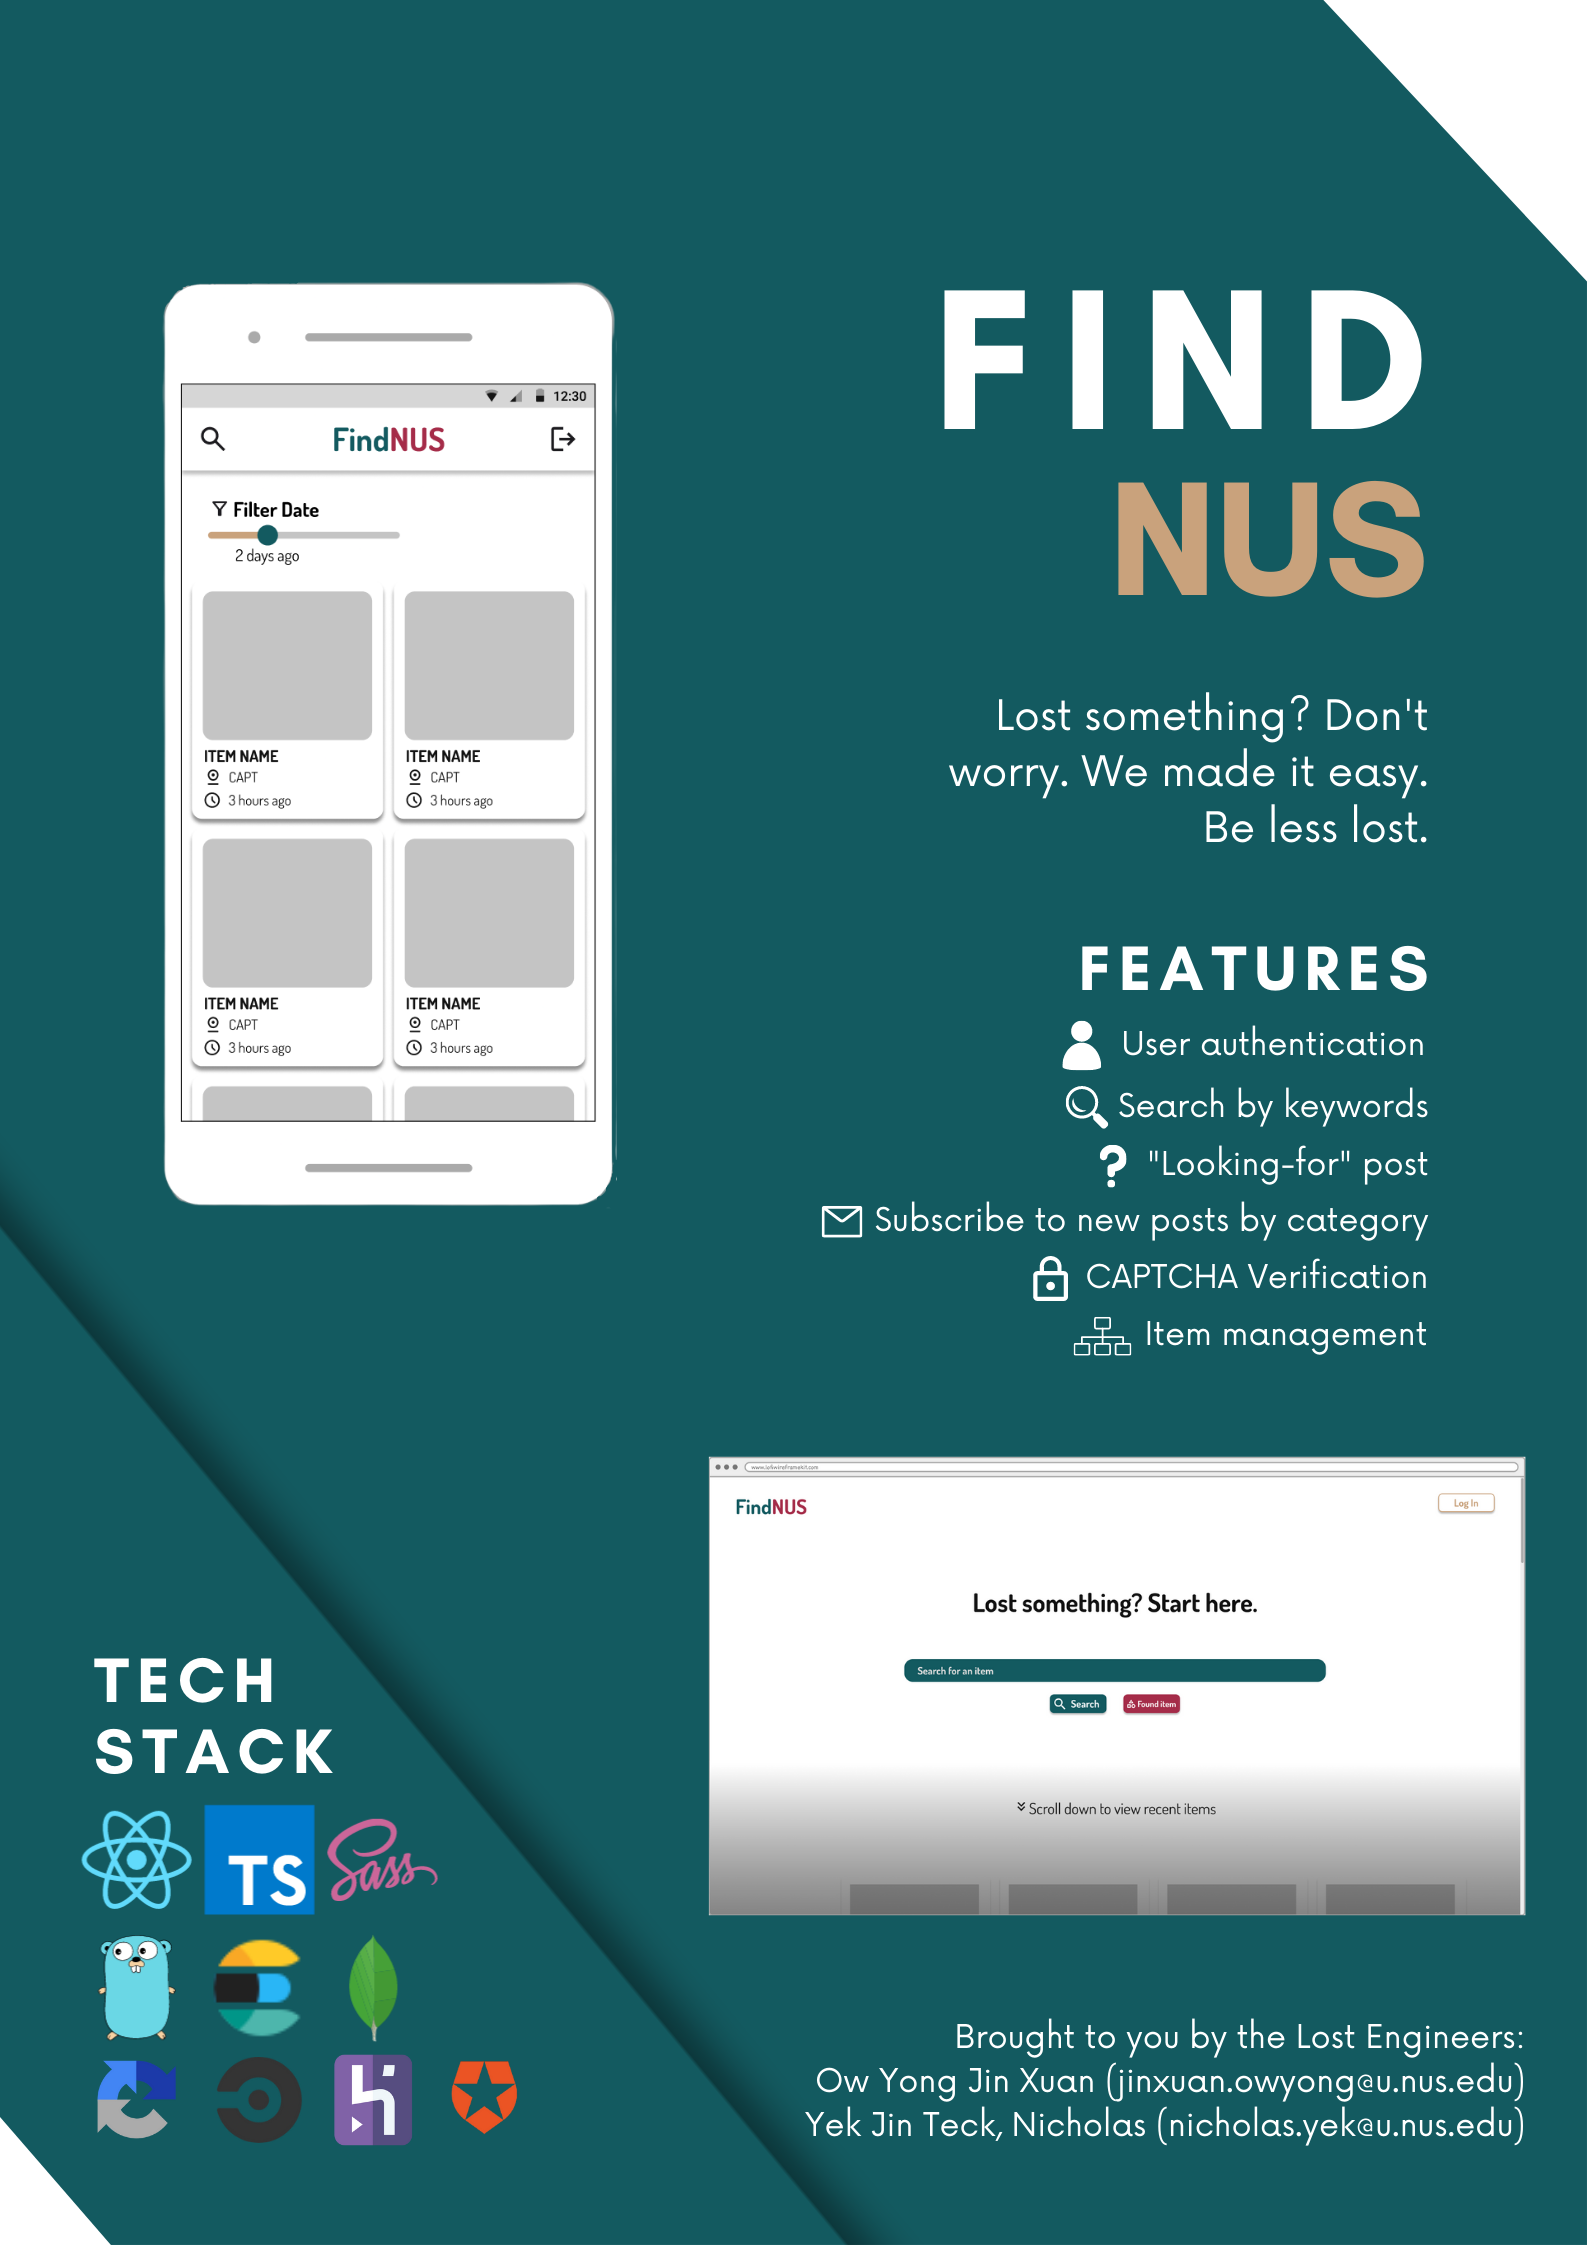
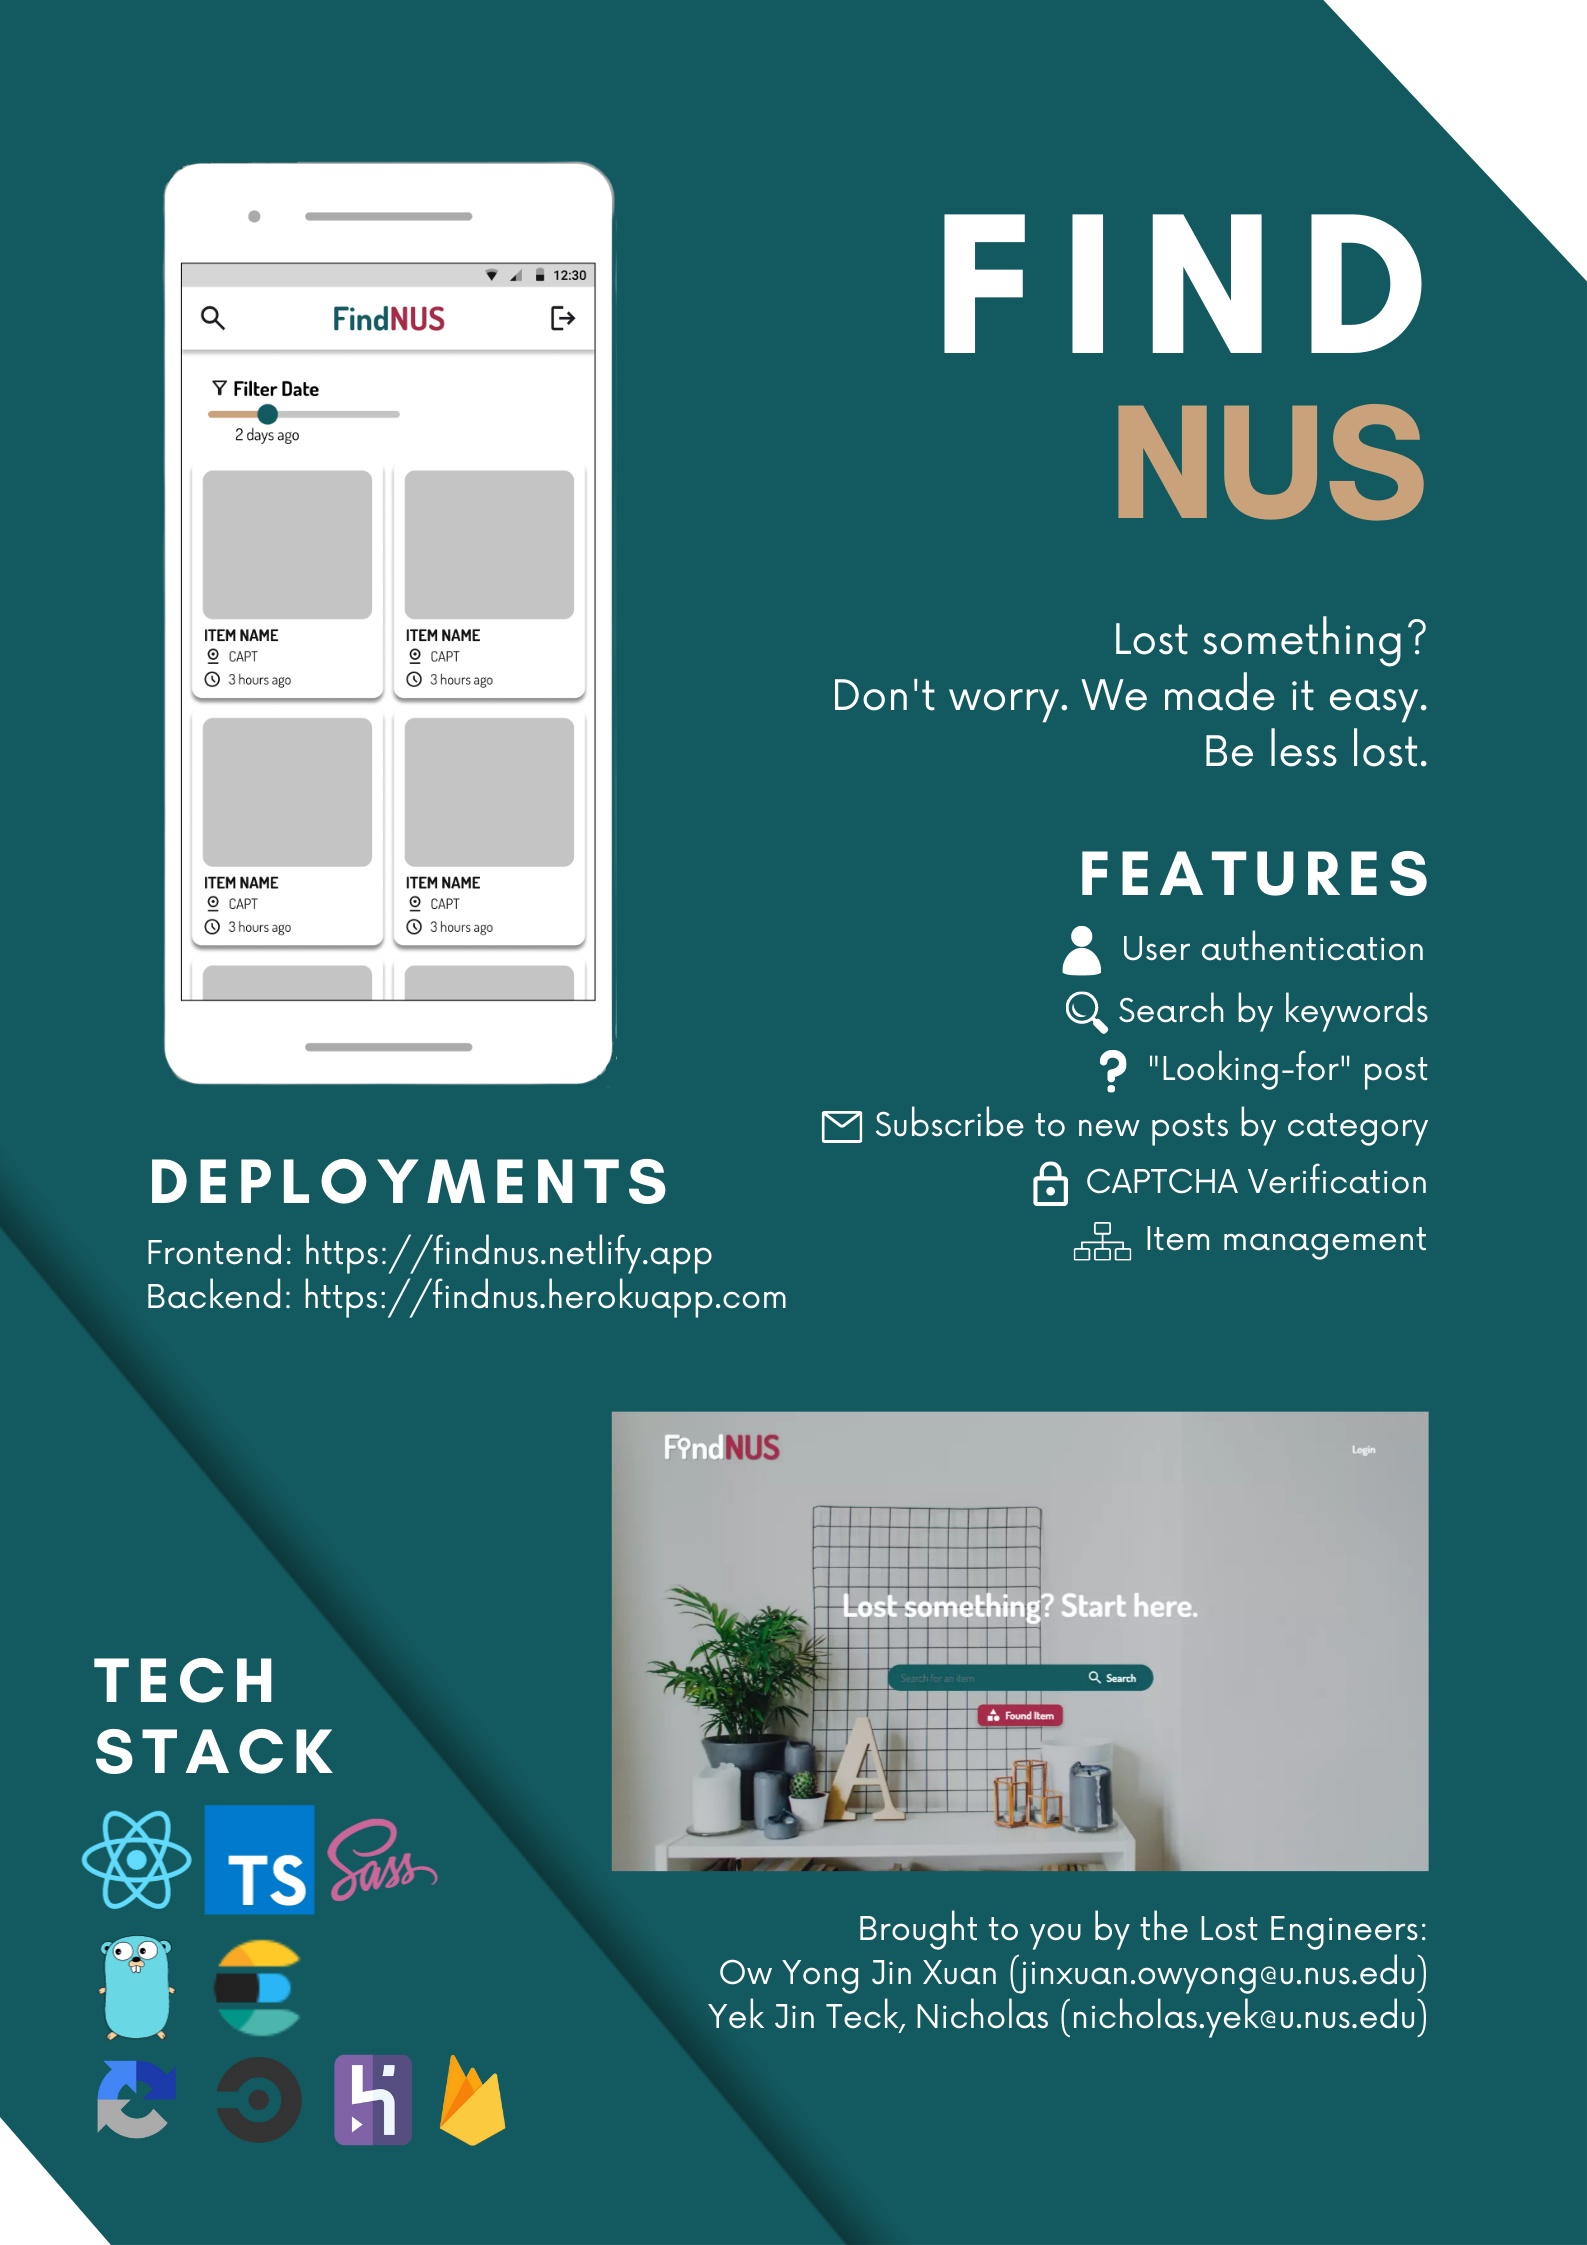
Update README.md

diff --git a/profile/README.MD b/profile/README.MD
@@ -2,11 +2,17 @@
 
 Welcome to FindNUS, a lost and found item management system.
 
+## Deployments
+
+Frontend: https://findnus.netlify.app
+
+Backend: https://findnus.herokuapp.com
+
 ## Poster
 
 ![FindNUS Project Poster](/profile/img/5014.png)
 
 ## Video
 
-You may watch our project video [here](https://1drv.ms/v/s!AsnQ61CTQSjFa237Ix5b4nm4cwI?e=4HHxUq)
+You may watch our project video [here](https://drive.google.com/file/d/1gcNZdWdNWWIgdypB7aj0wyZYQPS_X2sj/view?usp=sharing)
 
